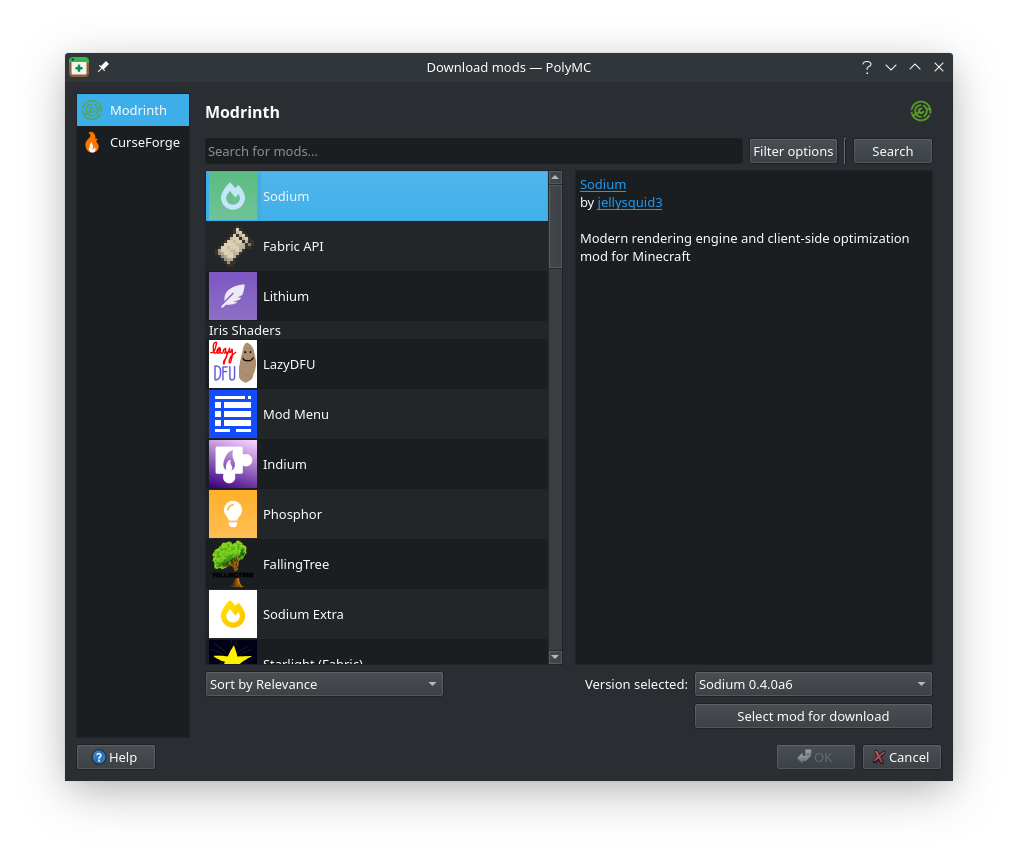
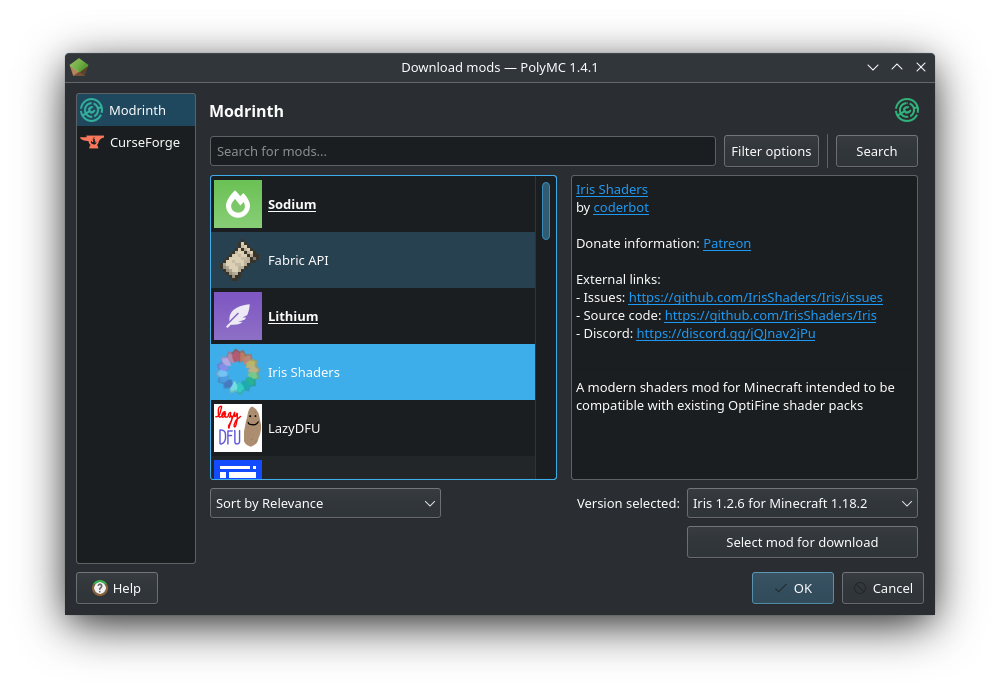
deploy: 95119dd5e8bde0ebbd8d3b303124672bbe69dd4b

Changed region(s): [[0.031, 0.0607, 0.961, 0.9408], [0.527, 0.7587, 0.558, 0.789]]

diff --git a/index.html b/index.html
@@ -114,15 +114,15 @@
           </div class="image">
             <div class="column">
               <picture>
-      <source type="image/webp" srcset="/img/built/508d0I1VZI-931.webp 931w" sizes="100vw" media="(prefers-color-scheme: dark)">
-  <source type="image/png" srcset="/img/built/508d0I1VZI-931.png 931w" sizes="100vw" media="(prefers-color-scheme: dark)">
-      <source type="image/webp" srcset="/img/built/L3NTyYkO6i-931.webp 931w" sizes="100vw">
-  <source type="image/png" srcset="/img/built/L3NTyYkO6i-931.png 931w" sizes="100vw">
+      <source type="image/webp" srcset="/img/built/PPK_VFf4vs-976.webp 976w" sizes="100vw" media="(prefers-color-scheme: dark)">
+  <source type="image/png" srcset="/img/built/PPK_VFf4vs-976.png 976w" sizes="100vw" media="(prefers-color-scheme: dark)">
+      <source type="image/webp" srcset="/img/built/TUO7S-2aXG-976.webp 976w" sizes="100vw">
+  <source type="image/png" srcset="/img/built/TUO7S-2aXG-976.png 976w" sizes="100vw">
       <img
         class="undefined"
-        src="/img/built/L3NTyYkO6i-931.png"
-        width="931"
-        height="759"
+        src="/img/built/TUO7S-2aXG-976.png"
+        width="976"
+        height="764"
         alt="PolyMC"
         loading="lazy"
         decoding="async">
@@ -165,15 +165,15 @@
     </div>
     <div class="column">
       <picture>
-      <source type="image/webp" srcset="/img/built/jU9begbRGu-860.webp 860w" sizes="100vw" media="(prefers-color-scheme: dark)">
-  <source type="image/png" srcset="/img/built/jU9begbRGu-860.png 860w" sizes="100vw" media="(prefers-color-scheme: dark)">
-      <source type="image/webp" srcset="/img/built/aMcRCfbUVz-860.webp 860w" sizes="100vw">
-  <source type="image/png" srcset="/img/built/aMcRCfbUVz-860.png 860w" sizes="100vw">
+      <source type="image/webp" srcset="/img/built/Q6dnwCdh_5-1103.webp 1103w" sizes="100vw" media="(prefers-color-scheme: dark)">
+  <source type="image/png" srcset="/img/built/Q6dnwCdh_5-1103.png 1103w" sizes="100vw" media="(prefers-color-scheme: dark)">
+      <source type="image/webp" srcset="/img/built/xr3uPyA67T-1103.webp 1103w" sizes="100vw">
+  <source type="image/png" srcset="/img/built/xr3uPyA67T-1103.png 1103w" sizes="100vw">
       <img
         class="undefined"
-        src="/img/built/aMcRCfbUVz-860.png"
-        width="860"
-        height="848"
+        src="/img/built/xr3uPyA67T-1103.png"
+        width="1103"
+        height="954"
         alt="Modpack Installer"
         loading="lazy"
         decoding="async">
@@ -183,23 +183,37 @@
   <div class="row">
     <div class="column">
       <div>
-        <h1>Download Mods</h1>
+        <h1>Download & Update Mods</h1>
         <div class="subtitle">
-          <p>Are you sick of finding and adding that one mod you need? PolyMC is able to download individual mods from outside of modpacks using Modrinth and CurseForge.
+          <p>Are you sick of finding and adding that one mod you need? PolyMC is able to download & update individual mods from outside of modpacks using Modrinth and CurseForge.
         </div>
       </div>
     </div>
     <div class="column">
       <picture>
-      <source type="image/webp" srcset="/img/built/2P7RCboxSn-1018.webp 1018w" sizes="100vw" media="(prefers-color-scheme: dark)">
-  <source type="image/png" srcset="/img/built/2P7RCboxSn-1018.png 1018w" sizes="100vw" media="(prefers-color-scheme: dark)">
-      <source type="image/webp" srcset="/img/built/6agHnsuwHR-1018.webp 1018w" sizes="100vw">
-  <source type="image/png" srcset="/img/built/6agHnsuwHR-1018.png 1018w" sizes="100vw">
+      <source type="image/webp" srcset="/img/built/aRn0KC0yny-1000.webp 1000w" sizes="100vw" media="(prefers-color-scheme: dark)">
+  <source type="image/png" srcset="/img/built/aRn0KC0yny-1000.png 1000w" sizes="100vw" media="(prefers-color-scheme: dark)">
+      <source type="image/webp" srcset="/img/built/eCvKDc8k6t-917.webp 917w" sizes="100vw">
+  <source type="image/png" srcset="/img/built/eCvKDc8k6t-917.png 917w" sizes="100vw">
       <img
         class="undefined"
-        src="/img/built/6agHnsuwHR-1018.png"
-        width="1018"
-        height="858"
+        src="/img/built/eCvKDc8k6t-917.png"
+        width="917"
+        height="700"
+        alt="Mod Installer"
+        loading="lazy"
+        decoding="async">
+    </picture>
+      <picture>
+      <source type="image/webp" srcset="/img/built/b2pd9mZIXt-930.webp 930w" sizes="100vw" media="(prefers-color-scheme: dark)">
+  <source type="image/png" srcset="/img/built/b2pd9mZIXt-930.png 930w" sizes="100vw" media="(prefers-color-scheme: dark)">
+      <source type="image/webp" srcset="/img/built/tv22bfltQQ-930.webp 930w" sizes="100vw">
+  <source type="image/png" srcset="/img/built/tv22bfltQQ-930.png 930w" sizes="100vw">
+      <img
+        class="undefined"
+        src="/img/built/tv22bfltQQ-930.png"
+        width="930"
+        height="844"
         alt="Mod Installer"
         loading="lazy"
         decoding="async">
@@ -220,15 +234,15 @@
     </div>
     <div class="column">
       <picture>
-      <source type="image/webp" srcset="/img/built/pC5jAiIkbi-777.webp 777w" sizes="100vw" media="(prefers-color-scheme: dark)">
-  <source type="image/png" srcset="/img/built/pC5jAiIkbi-777.png 777w" sizes="100vw" media="(prefers-color-scheme: dark)">
-      <source type="image/webp" srcset="/img/built/0tITRhu6Am-777.webp 777w" sizes="100vw">
-  <source type="image/png" srcset="/img/built/0tITRhu6Am-777.png 777w" sizes="100vw">
+      <source type="image/webp" srcset="/img/built/n0hdEQCAY4-1083.webp 1083w" sizes="100vw" media="(prefers-color-scheme: dark)">
+  <source type="image/png" srcset="/img/built/n0hdEQCAY4-1083.png 1083w" sizes="100vw" media="(prefers-color-scheme: dark)">
+      <source type="image/webp" srcset="/img/built/uXf5nBRAWb-1080.webp 1080w" sizes="100vw">
+  <source type="image/png" srcset="/img/built/uXf5nBRAWb-1080.png 1080w" sizes="100vw">
       <img
         class="undefined"
-        src="/img/built/0tITRhu6Am-777.png"
-        width="777"
-        height="693"
+        src="/img/built/uXf5nBRAWb-1080.png"
+        width="1080"
+        height="735"
         alt="Instance Settings"
         loading="lazy"
         decoding="async">
@@ -240,21 +254,21 @@
       <div>
         <h1>Lightweight & Customizable</h1>
         <div class="subtitle">
-          You don't need an embedded web browser for a game launcher. PolyMC uses the Qt toolkit, which requires little system resources.
+          You don't need an embedded web browser for a game launcher. PolyMC uses the Qt toolkit, which requires little system resources. PolyMC also supports customizing the instance window and theme.
         </div>
       </div>
     </div>
     <div class="column">
       <picture>
-      <source type="image/webp" srcset="/img/built/2Z99x8zD7T-931.webp 931w" sizes="100vw" media="(prefers-color-scheme: dark)">
-  <source type="image/png" srcset="/img/built/2Z99x8zD7T-931.png 931w" sizes="100vw" media="(prefers-color-scheme: dark)">
-      <source type="image/webp" srcset="/img/built/Yb76ZsdFoe-931.webp 931w" sizes="100vw">
-  <source type="image/png" srcset="/img/built/Yb76ZsdFoe-931.png 931w" sizes="100vw">
+      <source type="image/webp" srcset="/img/built/MuCHEi_d4_-1045.webp 1045w" sizes="100vw" media="(prefers-color-scheme: dark)">
+  <source type="image/png" srcset="/img/built/MuCHEi_d4_-1045.png 1045w" sizes="100vw" media="(prefers-color-scheme: dark)">
+      <source type="image/webp" srcset="/img/built/2_1-WSOeC1-1045.webp 1045w" sizes="100vw">
+  <source type="image/png" srcset="/img/built/2_1-WSOeC1-1045.png 1045w" sizes="100vw">
       <img
         class="undefined"
-        src="/img/built/Yb76ZsdFoe-931.png"
-        width="931"
-        height="759"
+        src="/img/built/2_1-WSOeC1-1045.png"
+        width="1045"
+        height="764"
         alt="Mod Installer"
         loading="lazy"
         decoding="async">

diff --git a/download/linux/index.html b/download/linux/index.html
@@ -161,15 +161,15 @@
     </div>
     <div class="column">
       <picture>
-      <source type="image/webp" srcset="/img/built/508d0I1VZI-931.webp 931w" sizes="100vw" media="(prefers-color-scheme: dark)">
-  <source type="image/png" srcset="/img/built/508d0I1VZI-931.png 931w" sizes="100vw" media="(prefers-color-scheme: dark)">
-      <source type="image/webp" srcset="/img/built/L3NTyYkO6i-931.webp 931w" sizes="100vw">
-  <source type="image/png" srcset="/img/built/L3NTyYkO6i-931.png 931w" sizes="100vw">
+      <source type="image/webp" srcset="/img/built/PPK_VFf4vs-976.webp 976w" sizes="100vw" media="(prefers-color-scheme: dark)">
+  <source type="image/png" srcset="/img/built/PPK_VFf4vs-976.png 976w" sizes="100vw" media="(prefers-color-scheme: dark)">
+      <source type="image/webp" srcset="/img/built/TUO7S-2aXG-976.webp 976w" sizes="100vw">
+  <source type="image/png" srcset="/img/built/TUO7S-2aXG-976.png 976w" sizes="100vw">
       <img
         class="undefined"
-        src="/img/built/L3NTyYkO6i-931.png"
-        width="931"
-        height="759"
+        src="/img/built/TUO7S-2aXG-976.png"
+        width="976"
+        height="764"
         alt="Modpack Installer"
         loading="lazy"
         decoding="async">

diff --git a/news/index.html b/news/index.html
@@ -107,9 +107,25 @@
         <div class="column">
           <div class="hero-description">
             <h1 class="hero-title">Latest News</h1>
-            <p class="subtitle"></p>
+            <p class="subtitle">The latest and greatest news regarding updates, changes and more. PolyMC now supports viewing news directly in the Launcher by clicking the news icon at the bottom of the window.</p>
           </div>
           </div class="image">
+            <div class="column">
+              <picture>
+      <source type="image/webp" srcset="/img/built/o_9Nc3rRV4-930.webp 930w" sizes="100vw" media="(prefers-color-scheme: dark)">
+  <source type="image/png" srcset="/img/built/o_9Nc3rRV4-930.png 930w" sizes="100vw" media="(prefers-color-scheme: dark)">
+      <source type="image/webp" srcset="/img/built/4k_HxxBFyK-930.webp 930w" sizes="100vw">
+  <source type="image/png" srcset="/img/built/4k_HxxBFyK-930.png 930w" sizes="100vw">
+      <img
+        class="undefined"
+        src="/img/built/4k_HxxBFyK-930.png"
+        width="930"
+        height="659"
+        alt="Latest News"
+        loading="lazy"
+        decoding="async">
+    </picture>
+            </div>
         </div>
       </div>
     </div>
